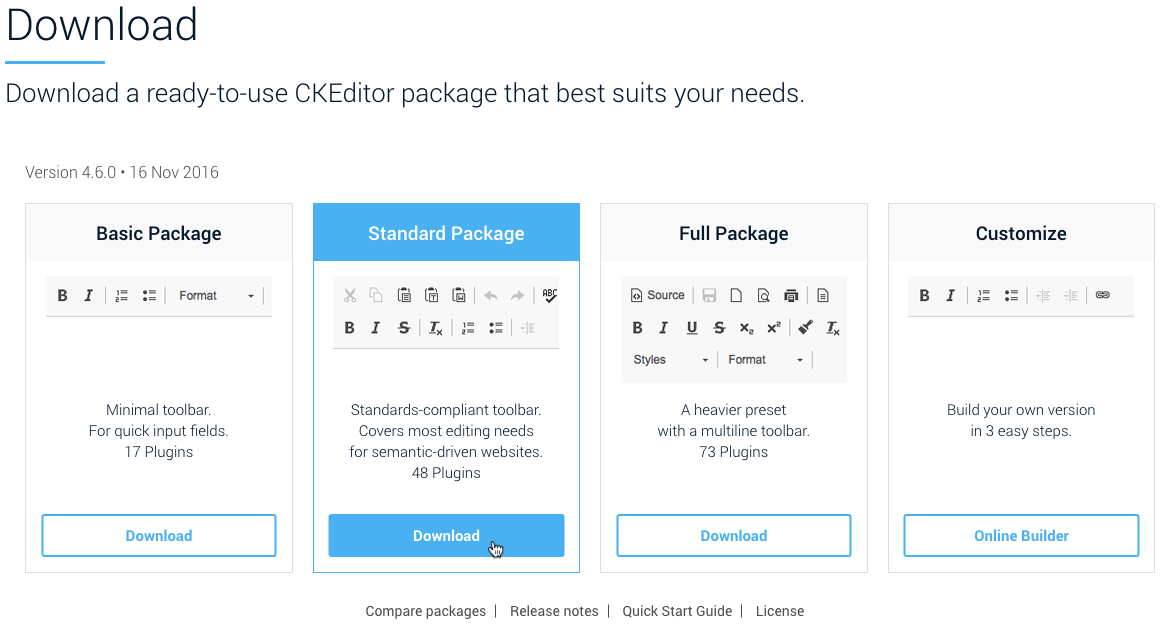
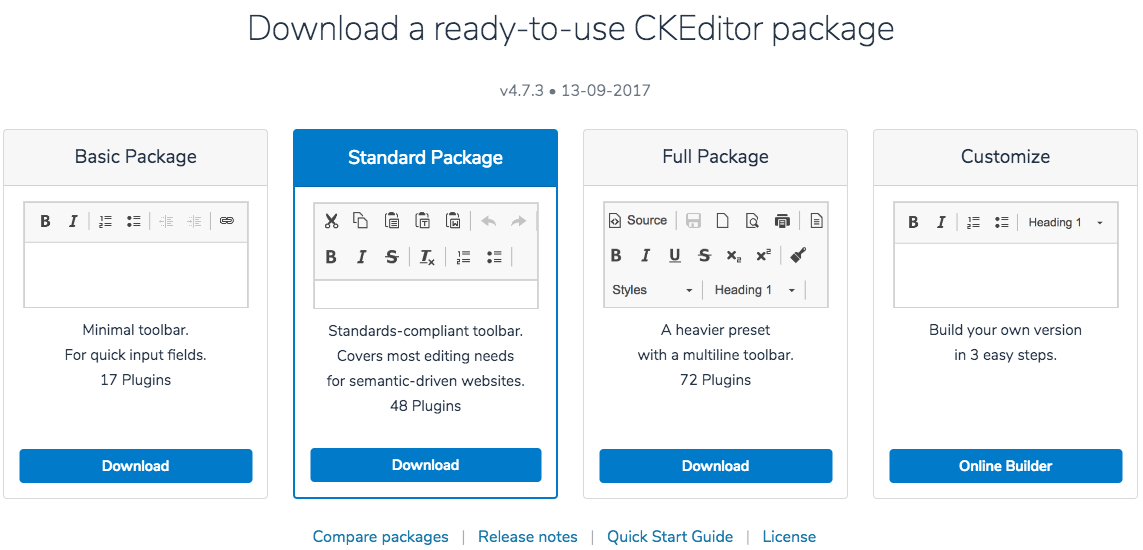
Download site screenshot updated.

diff --git a/guides/dev/installation/README.md b/guides/dev/installation/README.md
@@ -11,7 +11,7 @@ The aim of this article is to get you up and running with CKEditor in two minute
 
 Visit the official [CKEditor Download](https://ckeditor.com/ckeditor-4/download/) site. For a production site we recommend you choose the default **Standard Package** and click the **Download CKEditor** button to get the `.zip` installation file. If you want to try out more editor features, you can download the **Full Package** instead.
 
-<a href="https://ckeditor.com/ckeditor-4/download/"><img src="guides/dev_installation/ckeditor_quick_start_download.png" alt="CKEditor Download site" width="932" height="502"></a>
+<a href="https://ckeditor.com/ckeditor-4/download/"><img src="guides/dev_installation/ckeditor_quick_start_download.png" alt="CKEditor Download site" width="914" height="440"></a>
 
 ## Unpacking
 
